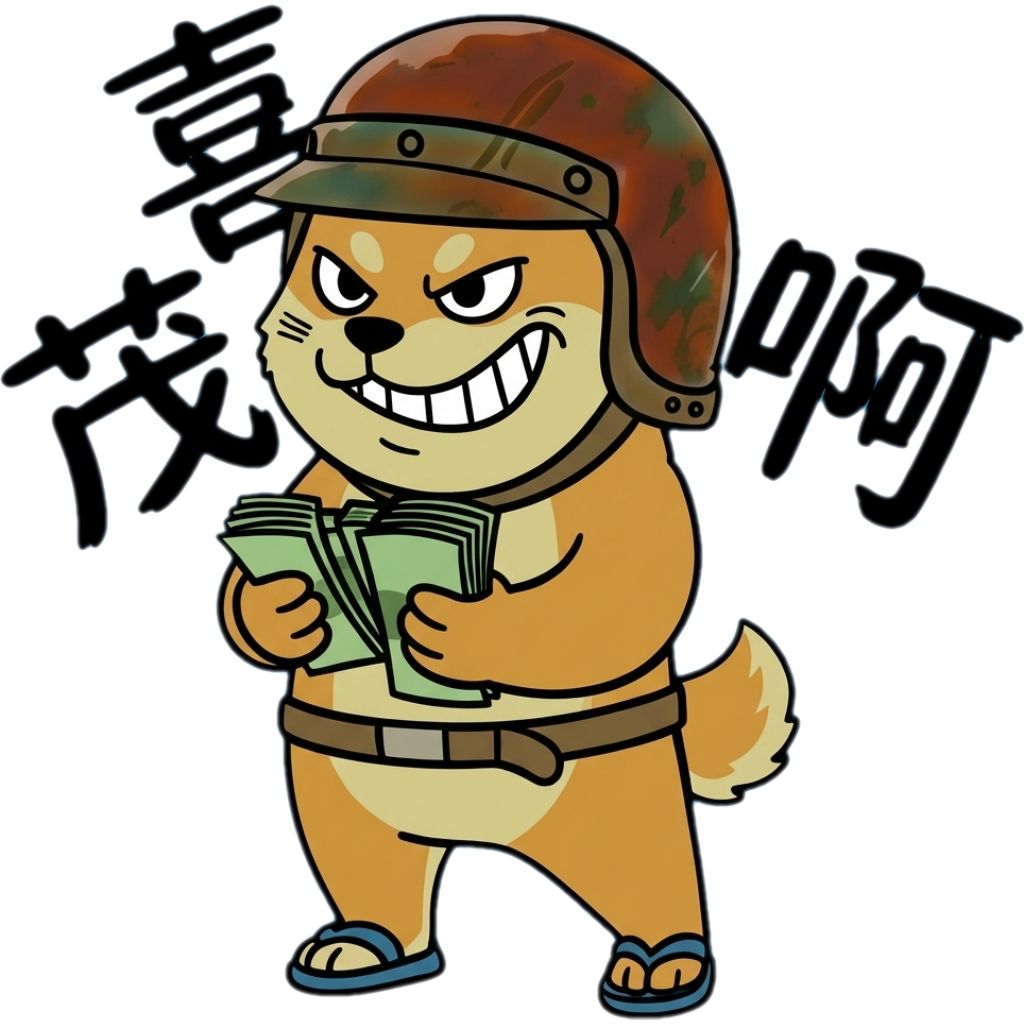
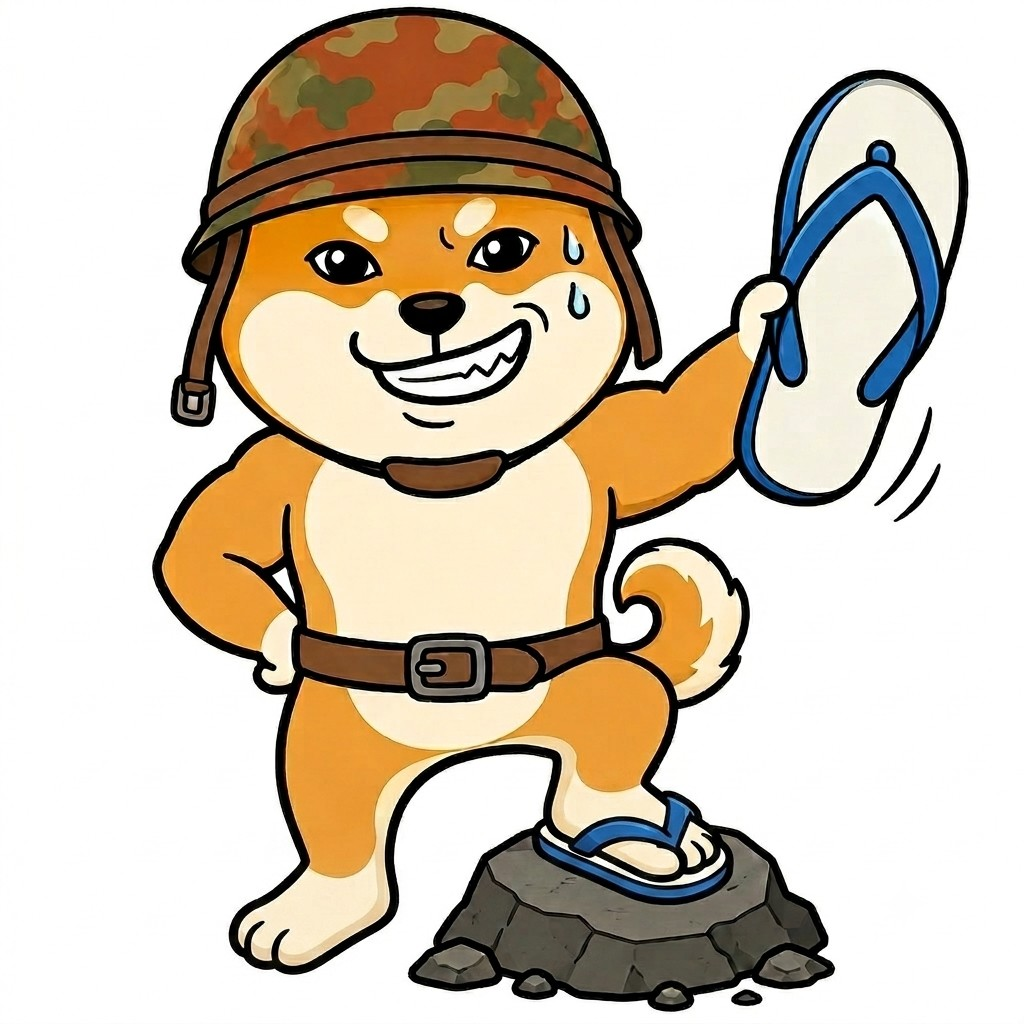
Update Taiwan Shiba Daily store listing copy on homepage.
Align five-locale name, subtitle, and description with revised App Store metadata and refresh the app icon.

diff --git a/content/home.js b/content/home.js
@@ -43,10 +43,10 @@ module.exports = {
     taiger_desc:
       "聊天沒話題？那是因為你少了一隻「台客柴」！本系列收錄江湖吐槽神句與爆笑表情，專門對付已讀不回、需要被狠嗆的朋友。從藍白拖到復古安全帽，超派口頭禪俗擱有力，台到沒朋友。",
     shiba_daily_name: "【台灣柴】日常純圖篇",
-    shiba_daily_sub: "40張無字柴犬・藍白拖＋復古安全帽",
+    shiba_daily_sub: "藍白拖柴犬・無字純圖40張",
     shiba_daily_desc:
-      "同一隻超派阿柴，純圖無字更百搭！日常表情、北爛姿態一次收齊，iMessage 聊天不尬聊。8/31 前限時免費。",
-    shiba_daily_app_id: "",
+      "同一隻超派阿柴，純圖無字更百搭！藍白拖、復古安全帽，日常表情與北爛姿態一次收齊，聊天不漏接。",
+    shiba_daily_app_id: "6783024876",
     meow1_name: "MeowCAT-1: 辦公室貓爪",
     meow1_sub: "你的每日可愛劑量 / Your Daily Dose of Cuteness",
     meow1_desc: "踏入辦公室日常！冒雨通勤、KPI 奮戰，每個瞬間變得可愛又共鳴。",
@@ -124,10 +124,10 @@ module.exports = {
     taiger_desc:
       "聊天没话题？那是因为你少了一只「台客柴」！本系列收录江湖吐槽神句与爆笑表情，专门对付已读不回、需要被狠呛的朋友。从蓝白拖到复古安全帽，超派口头禅俗搁有力，台到没朋友。",
     shiba_daily_name: "【台湾柴】日常纯图篇",
-    shiba_daily_sub: "40张无字柴犬・蓝白拖＋复古安全帽",
+    shiba_daily_sub: "蓝白拖柴犬・无字纯图40张",
     shiba_daily_desc:
-      "同一只超派阿柴，纯图无字更百搭！日常表情、北烂姿态一次收齐，iMessage 聊天不尬聊。8/31 前限时免费。",
-    shiba_daily_app_id: "",
+      "同一只超派阿柴，纯图无字更百搭！蓝白拖、复古安全帽，日常表情与北烂姿态一次收齐，聊天不漏接。",
+    shiba_daily_app_id: "6783024876",
     meow1_name: "MeowCAT-1: 办公室猫爪",
     meow1_sub: "你的每日可爱剂量 / Your Daily Dose of Cuteness",
     meow1_desc: "踏入办公室日常！冒雨通勤、KPI 奋战，每个瞬间变得可爱又共鸣。",
@@ -204,11 +204,11 @@ module.exports = {
     taiger_sub: "Blue slippers + retro helmet + gangster phrases. Looks fierce but hilariously silly",
     taiger_desc:
       "No chat topics? You're missing Taiger Shiba! Gangster one-liners and hilarious expressions for ghosting friends and spicy group chats. Blue slippers, retro helmet, Taiwan swagger—collect them all.",
-    shiba_daily_name: "Taiwan Shiba: Daily Expressions",
-    shiba_daily_sub: "40 text-free Shiba stickers for iMessage",
+    shiba_daily_name: "Taiwan Shiba Daily Expressions",
+    shiba_daily_sub: "40 text-free Shiba stickers",
     shiba_daily_desc:
-      "Same fierce Taiwan Shiba—zero text on the art. Everyday reactions and poses with blue slippers and a retro helmet. FREE until Aug 31.",
-    shiba_daily_app_id: "",
+      "Same fierce Taiwan Shiba—zero text on the art. Blue slippers, retro helmet, and everyday reactions for any chat.",
+    shiba_daily_app_id: "6783024876",
     meow1_name: "MeowCAT-1: Office Paws",
     meow1_sub: "Your Daily Dose of Cuteness",
     meow1_desc: "Office life reimagined! Rainy commutes, KPI battles—every moment cuter and more relatable.",
@@ -286,10 +286,10 @@ module.exports = {
     taiger_desc:
       "話題に困った？台客柴がいないだけかも！台湾スラングの名セリフと爆笑スタンプで、既読スルーや辛口チャットに最適。ビーチサンダルからレトロヘルメットまで、台湾のノリ満載。",
     shiba_daily_name: "台湾柴：デイリー表情",
-    shiba_daily_sub: "文字なし柴犬ステッカー40枚",
+    shiba_daily_sub: "文字なし柴犬40枚・日常",
     shiba_daily_desc:
-      "同じ台湾柴キャラの文字なし版。ビーチサンダル＋レトロヘルメットの日常表情。2026年8月31日まで無料。",
-    shiba_daily_app_id: "",
+      "同じ台湾柴、今回は文字なし。ビーチサンダルとレトロヘルメットの柴犬が、日常のリアクションを届けます。",
+    shiba_daily_app_id: "6783024876",
     meow1_name: "MeowCAT-1: オフィスネコ",
     meow1_sub: "あなたの毎日の可愛さの摂取量",
     meow1_desc: "オフィスライフを再解釈！雨の通勤、KPIとの戦い—すべての瞬間がもっとかわいく、共感できるように。",
@@ -367,10 +367,10 @@ module.exports = {
     taiger_desc:
       "대화 주제가 없나요? 타이거 시바가 없어서 그렇습니다! 대만식 명대사와 웃긴 이모티콘으로 읽씹 친구와 매운맛 채팅에 딱 맞습니다. 슬리퍼부터 레트로 헬멧까지, 대만 감성 가득.",
     shiba_daily_name: "타이완 시바: 데일리 스티커",
-    shiba_daily_sub: "글자 없는 시바 스티커 40장",
+    shiba_daily_sub: "글자 없는 시바 40장・일상",
     shiba_daily_desc:
-      "같은 타이완 시바 캐릭터의 글자 없는 버전. 슬리퍼+레트로 헬멧 일상 표정. 2026년 8월 31일까지 무료.",
-    shiba_daily_app_id: "",
+      "같은 타이완 시바, 이번엔 글자 없이. 슬리퍼와 레트로 헬멧을 쓴 시바가 일상 리액션을 전해 드립니다.",
+    shiba_daily_app_id: "6783024876",
     meow1_name: "MeowCAT-1: 사무실 고양이",
     meow1_sub: "당신의 매일 매력 복용량",
     meow1_desc: "오피스 라이프를 새롭게! 비 오는 출근, KPI 전투—모든 순간이 더 귀엽고 공감되게.",

diff --git a/en/index.html b/en/index.html
@@ -431,7 +431,7 @@ That someone is you</div>
         </div>
         <div class="grid-stickers">
             <div class="sticker-card"><img class="sticker-icon" src="/images/shiba_icon.png" alt="Taiger Shiba"><div class="sticker-name-zh">Taiger Shiba: Jianghu Daily</div><div class="sticker-sub">Blue slippers + retro helmet + gangster phrases. Looks fierce but hilariously silly</div><div class="sticker-desc">No chat topics? You're missing Taiger Shiba! Gangster one-liners and hilarious expressions for ghosting friends and spicy group chats. Blue slippers, retro helmet, Taiwan swagger—collect them all.</div><div class="store-badge"><a href="https://apps.apple.com/app/id6761126835" target="_blank" rel="noopener"><img src="/images/Download_on_the_App_Store_Badge.png" style="height:36px;" alt="App Store"></a></div></div>
-            <div class="sticker-card"><img class="sticker-icon" src="/images/shiba_daily_icon.png" alt="Taiwan Shiba Daily"><div class="sticker-name-zh">Taiwan Shiba: Daily Expressions</div><div class="sticker-sub">40 text-free Shiba stickers for iMessage</div><div class="sticker-desc">Same fierce Taiwan Shiba—zero text on the art. Everyday reactions and poses with blue slippers and a retro helmet. FREE until Aug 31.</div></div>
+            <div class="sticker-card"><img class="sticker-icon" src="/images/shiba_daily_icon.png" alt="Taiwan Shiba Daily"><div class="sticker-name-zh">Taiwan Shiba Daily Expressions</div><div class="sticker-sub">40 text-free Shiba stickers</div><div class="sticker-desc">Same fierce Taiwan Shiba—zero text on the art. Blue slippers, retro helmet, and everyday reactions for any chat.</div><div class="store-badge"><a href="https://apps.apple.com/app/id6783024876" target="_blank" rel="noopener"><img src="/images/Download_on_the_App_Store_Badge.png" style="height:36px;" alt="App Store"></a></div></div>
             <div class="sticker-card"><img class="sticker-icon" src="/images/MeowCAT-1_icon.png" alt="MeowCAT-1"><div class="sticker-name-zh">MeowCAT-1: Office Paws</div><div class="sticker-sub">Your Daily Dose of Cuteness</div><div class="sticker-desc">Office life reimagined! Rainy commutes, KPI battles—every moment cuter and more relatable.</div><div class="store-badge"><a href="https://apps.apple.com/app/id6755613138" target="_blank" rel="noopener"><img src="/images/Download_on_the_App_Store_Badge.png" style="height:36px;" alt="App Store"></a></div></div>
             <div class="sticker-card"><img class="sticker-icon" src="/images/MeowCAT-2_icon.png" alt="MeowCAT-2"><div class="sticker-name-zh">MeowCAT-2: Corporate Meltdown</div><div class="sticker-sub">Sassy &amp; Stressed-out</div><div class="sticker-desc">Inbox hydra, boss emergencies—sassy office cat attitude for your meltdown days.</div><div class="store-badge"><a href="https://apps.apple.com/app/id6755665538" target="_blank" rel="noopener"><img src="/images/Download_on_the_App_Store_Badge.png" style="height:36px;" alt="App Store"></a></div></div>
             <div class="sticker-card"><img class="sticker-icon" src="/images/MeowCAT-3_icon.png" alt="MeowCAT-3"><div class="sticker-name-zh">MeowCAT-3: Cubicle Tails</div><div class="sticker-sub">Say It with a Meow</div><div class="sticker-desc">Endless meetings, sleepy keyboard cat, paw-high-fives for wins—a fluffy cubicle companion.</div><div class="store-badge"><a href="https://apps.apple.com/app/id6755676294" target="_blank" rel="noopener"><img src="/images/Download_on_the_App_Store_Badge.png" style="height:36px;" alt="App Store"></a></div></div>

diff --git a/ja/index.html b/ja/index.html
@@ -431,7 +431,7 @@ footer { text-align: center; padding: 24px 0 40px; font-size: 0.7rem; color: #6a
         </div>
         <div class="grid-stickers">
             <div class="sticker-card"><img class="sticker-icon" src="/images/shiba_icon.png" alt="Taiger Shiba"><div class="sticker-name-zh">【台客柴】阿柴的江湖日常：俗擱有力篇</div><div class="sticker-sub">藍白拖＋復古安全帽＋超派口頭禪，看起來很兇其實超北爛</div><div class="sticker-desc">話題に困った？台客柴がいないだけかも！台湾スラングの名セリフと爆笑スタンプで、既読スルーや辛口チャットに最適。ビーチサンダルからレトロヘルメットまで、台湾のノリ満載。</div><div class="store-badge"><a href="https://apps.apple.com/app/id6761126835" target="_blank" rel="noopener"><img src="/images/Download_on_the_App_Store_Badge.png" style="height:36px;" alt="App Store"></a></div></div>
-            <div class="sticker-card"><img class="sticker-icon" src="/images/shiba_daily_icon.png" alt="Taiwan Shiba Daily"><div class="sticker-name-zh">台湾柴：デイリー表情</div><div class="sticker-sub">文字なし柴犬ステッカー40枚</div><div class="sticker-desc">同じ台湾柴キャラの文字なし版。ビーチサンダル＋レトロヘルメットの日常表情。2026年8月31日まで無料。</div></div>
+            <div class="sticker-card"><img class="sticker-icon" src="/images/shiba_daily_icon.png" alt="Taiwan Shiba Daily"><div class="sticker-name-zh">台湾柴：デイリー表情</div><div class="sticker-sub">文字なし柴犬40枚・日常</div><div class="sticker-desc">同じ台湾柴、今回は文字なし。ビーチサンダルとレトロヘルメットの柴犬が、日常のリアクションを届けます。</div><div class="store-badge"><a href="https://apps.apple.com/app/id6783024876" target="_blank" rel="noopener"><img src="/images/Download_on_the_App_Store_Badge.png" style="height:36px;" alt="App Store"></a></div></div>
             <div class="sticker-card"><img class="sticker-icon" src="/images/MeowCAT-1_icon.png" alt="MeowCAT-1"><div class="sticker-name-zh">MeowCAT-1: オフィスネコ</div><div class="sticker-sub">あなたの毎日の可愛さの摂取量</div><div class="sticker-desc">オフィスライフを再解釈！雨の通勤、KPIとの戦い—すべての瞬間がもっとかわいく、共感できるように。</div><div class="store-badge"><a href="https://apps.apple.com/app/id6755613138" target="_blank" rel="noopener"><img src="/images/Download_on_the_App_Store_Badge.png" style="height:36px;" alt="App Store"></a></div></div>
             <div class="sticker-card"><img class="sticker-icon" src="/images/MeowCAT-2_icon.png" alt="MeowCAT-2"><div class="sticker-name-zh">MeowCAT-2: 社畜のメンタル爆破</div><div class="sticker-sub">ツンデレ&amp;脳筋破裂</div><div class="sticker-desc">受信箱の九頭龍、上司の緊急依頼—生意気なオフィス猫が、崩壊寸前の日常を支える。</div><div class="store-badge"><a href="https://apps.apple.com/app/id6755665538" target="_blank" rel="noopener"><img src="/images/Download_on_the_App_Store_Badge.png" style="height:36px;" alt="App Store"></a></div></div>
             <div class="sticker-card"><img class="sticker-icon" src="/images/MeowCAT-3_icon.png" alt="MeowCAT-3"><div class="sticker-name-zh">MeowCAT-3: 業務にゃん</div><div class="sticker-sub">鳴き声で、伝えよう</div><div class="sticker-desc">終わらない会議、キーボード横の眠そうな猫、成功を祝う肉球ハイタッチ—ふわふわの相棒が日常を癒す。</div><div class="store-badge"><a href="https://apps.apple.com/app/id6755676294" target="_blank" rel="noopener"><img src="/images/Download_on_the_App_Store_Badge.png" style="height:36px;" alt="App Store"></a></div></div>

diff --git a/ko/index.html b/ko/index.html
@@ -431,7 +431,7 @@ footer { text-align: center; padding: 24px 0 40px; font-size: 0.7rem; color: #6a
         </div>
         <div class="grid-stickers">
             <div class="sticker-card"><img class="sticker-icon" src="/images/shiba_icon.png" alt="Taiger Shiba"><div class="sticker-name-zh">【台客柴】阿柴的江湖日常：俗擱有力篇</div><div class="sticker-sub">藍白拖＋復古安全帽＋超派口頭禪，看起來很兇其實超北爛</div><div class="sticker-desc">대화 주제가 없나요? 타이거 시바가 없어서 그렇습니다! 대만식 명대사와 웃긴 이모티콘으로 읽씹 친구와 매운맛 채팅에 딱 맞습니다. 슬리퍼부터 레트로 헬멧까지, 대만 감성 가득.</div><div class="store-badge"><a href="https://apps.apple.com/app/id6761126835" target="_blank" rel="noopener"><img src="/images/Download_on_the_App_Store_Badge.png" style="height:36px;" alt="App Store"></a></div></div>
-            <div class="sticker-card"><img class="sticker-icon" src="/images/shiba_daily_icon.png" alt="Taiwan Shiba Daily"><div class="sticker-name-zh">타이완 시바: 데일리 스티커</div><div class="sticker-sub">글자 없는 시바 스티커 40장</div><div class="sticker-desc">같은 타이완 시바 캐릭터의 글자 없는 버전. 슬리퍼+레트로 헬멧 일상 표정. 2026년 8월 31일까지 무료.</div></div>
+            <div class="sticker-card"><img class="sticker-icon" src="/images/shiba_daily_icon.png" alt="Taiwan Shiba Daily"><div class="sticker-name-zh">타이완 시바: 데일리 스티커</div><div class="sticker-sub">글자 없는 시바 40장・일상</div><div class="sticker-desc">같은 타이완 시바, 이번엔 글자 없이. 슬리퍼와 레트로 헬멧을 쓴 시바가 일상 리액션을 전해 드립니다.</div><div class="store-badge"><a href="https://apps.apple.com/app/id6783024876" target="_blank" rel="noopener"><img src="/images/Download_on_the_App_Store_Badge.png" style="height:36px;" alt="App Store"></a></div></div>
             <div class="sticker-card"><img class="sticker-icon" src="/images/MeowCAT-1_icon.png" alt="MeowCAT-1"><div class="sticker-name-zh">MeowCAT-1: 사무실 고양이</div><div class="sticker-sub">당신의 매일 매력 복용량</div><div class="sticker-desc">오피스 라이프를 새롭게! 비 오는 출근, KPI 전투—모든 순간이 더 귀엽고 공감되게.</div><div class="store-badge"><a href="https://apps.apple.com/app/id6755613138" target="_blank" rel="noopener"><img src="/images/Download_on_the_App_Store_Badge.png" style="height:36px;" alt="App Store"></a></div></div>
             <div class="sticker-card"><img class="sticker-icon" src="/images/MeowCAT-2_icon.png" alt="MeowCAT-2"><div class="sticker-name-zh">MeowCAT-2: 회사 괴롭힘 실태</div><div class="sticker-sub">삐졌음 스트레스 폭발함</div><div class="sticker-desc">받은편지함 히드라, 보스의 긴급 요청—당당한 오피스 고양이가 무너지는 일상을 함께합니다.</div><div class="store-badge"><a href="https://apps.apple.com/app/id6755665538" target="_blank" rel="noopener"><img src="/images/Download_on_the_App_Store_Badge.png" style="height:36px;" alt="App Store"></a></div></div>
             <div class="sticker-card"><img class="sticker-icon" src="/images/MeowCAT-3_icon.png" alt="MeowCAT-3"><div class="sticker-name-zh">MeowCAT-3: 사무실 야옹이</div><div class="sticker-sub">야옹으로 전해요</div><div class="sticker-desc">끝없는 회의, 키보드 옆 졸린 고양이, 성공을 축하하는 발바닥 하이파이브—푹신한 동료가 일상을 치유합니다.</div><div class="store-badge"><a href="https://apps.apple.com/app/id6755676294" target="_blank" rel="noopener"><img src="/images/Download_on_the_App_Store_Badge.png" style="height:36px;" alt="App Store"></a></div></div>

diff --git a/zh-cn/index.html b/zh-cn/index.html
@@ -431,7 +431,7 @@ footer { text-align: center; padding: 24px 0 40px; font-size: 0.7rem; color: #6a
         </div>
         <div class="grid-stickers">
             <div class="sticker-card"><img class="sticker-icon" src="/images/shiba_icon.png" alt="Taiger Shiba"><div class="sticker-name-zh">【台客柴】阿柴的江湖日常：俗搁有力篇</div><div class="sticker-sub">蓝白拖＋复古安全帽＋超派口头禅，看起来很凶其实超北烂</div><div class="sticker-desc">聊天没话题？那是因为你少了一只「台客柴」！本系列收录江湖吐槽神句与爆笑表情，专门对付已读不回、需要被狠呛的朋友。从蓝白拖到复古安全帽，超派口头禅俗搁有力，台到没朋友。</div><div class="store-badge"><a href="https://apps.apple.com/app/id6761126835" target="_blank" rel="noopener"><img src="/images/Download_on_the_App_Store_Badge.png" style="height:36px;" alt="App Store"></a></div></div>
-            <div class="sticker-card"><img class="sticker-icon" src="/images/shiba_daily_icon.png" alt="Taiwan Shiba Daily"><div class="sticker-name-zh">【台湾柴】日常纯图篇</div><div class="sticker-sub">40张无字柴犬・蓝白拖＋复古安全帽</div><div class="sticker-desc">同一只超派阿柴，纯图无字更百搭！日常表情、北烂姿态一次收齐，iMessage 聊天不尬聊。8/31 前限时免费。</div></div>
+            <div class="sticker-card"><img class="sticker-icon" src="/images/shiba_daily_icon.png" alt="Taiwan Shiba Daily"><div class="sticker-name-zh">【台湾柴】日常纯图篇</div><div class="sticker-sub">蓝白拖柴犬・无字纯图40张</div><div class="sticker-desc">同一只超派阿柴，纯图无字更百搭！蓝白拖、复古安全帽，日常表情与北烂姿态一次收齐，聊天不漏接。</div><div class="store-badge"><a href="https://apps.apple.com/app/id6783024876" target="_blank" rel="noopener"><img src="/images/Download_on_the_App_Store_Badge.png" style="height:36px;" alt="App Store"></a></div></div>
             <div class="sticker-card"><img class="sticker-icon" src="/images/MeowCAT-1_icon.png" alt="MeowCAT-1"><div class="sticker-name-zh">MeowCAT-1: 办公室猫爪</div><div class="sticker-sub">你的每日可爱剂量 / Your Daily Dose of Cuteness</div><div class="sticker-desc">踏入办公室日常！冒雨通勤、KPI 奋战，每个瞬间变得可爱又共鸣。</div><div class="store-badge"><a href="https://apps.apple.com/app/id6755613138" target="_blank" rel="noopener"><img src="/images/Download_on_the_App_Store_Badge.png" style="height:36px;" alt="App Store"></a></div></div>
             <div class="sticker-card"><img class="sticker-icon" src="/images/MeowCAT-2_icon.png" alt="MeowCAT-2"><div class="sticker-name-zh">MeowCAT-2: 职场崩溃日记</div><div class="sticker-sub">嚣张不改，崩溃常来 / Sassy &amp; Stressed-out</div><div class="sticker-desc">收件箱九头蛇、老板紧急要求，办公猫魂压力山大，呛辣态度陪你度过崩溃日常。</div><div class="store-badge"><a href="https://apps.apple.com/app/id6755665538" target="_blank" rel="noopener"><img src="/images/Download_on_the_App_Store_Badge.png" style="height:36px;" alt="App Store"></a></div></div>
             <div class="sticker-card"><img class="sticker-icon" src="/images/MeowCAT-3_icon.png" alt="MeowCAT-3"><div class="sticker-name-zh">MeowCAT-3: 隔间喵趣</div><div class="sticker-sub">用一声喵，说一切 / Say It with a Meow</div><div class="sticker-desc">无限会议、键盘旁困倦小猫，肉球击掌庆祝成功，毛茸茸伙伴疗愈日常。</div><div class="store-badge"><a href="https://apps.apple.com/app/id6755676294" target="_blank" rel="noopener"><img src="/images/Download_on_the_App_Store_Badge.png" style="height:36px;" alt="App Store"></a></div></div>

diff --git a/zh-tw/index.html b/zh-tw/index.html
@@ -431,7 +431,7 @@ footer { text-align: center; padding: 24px 0 40px; font-size: 0.7rem; color: #6a
         </div>
         <div class="grid-stickers">
             <div class="sticker-card"><img class="sticker-icon" src="/images/shiba_icon.png" alt="Taiger Shiba"><div class="sticker-name-zh">【台客柴】阿柴的江湖日常：俗擱有力篇</div><div class="sticker-sub">藍白拖＋復古安全帽＋超派口頭禪，看起來很兇其實超北爛</div><div class="sticker-desc">聊天沒話題？那是因為你少了一隻「台客柴」！本系列收錄江湖吐槽神句與爆笑表情，專門對付已讀不回、需要被狠嗆的朋友。從藍白拖到復古安全帽，超派口頭禪俗擱有力，台到沒朋友。</div><div class="store-badge"><a href="https://apps.apple.com/app/id6761126835" target="_blank" rel="noopener"><img src="/images/Download_on_the_App_Store_Badge.png" style="height:36px;" alt="App Store"></a></div></div>
-            <div class="sticker-card"><img class="sticker-icon" src="/images/shiba_daily_icon.png" alt="Taiwan Shiba Daily"><div class="sticker-name-zh">【台灣柴】日常純圖篇</div><div class="sticker-sub">40張無字柴犬・藍白拖＋復古安全帽</div><div class="sticker-desc">同一隻超派阿柴，純圖無字更百搭！日常表情、北爛姿態一次收齊，iMessage 聊天不尬聊。8/31 前限時免費。</div></div>
+            <div class="sticker-card"><img class="sticker-icon" src="/images/shiba_daily_icon.png" alt="Taiwan Shiba Daily"><div class="sticker-name-zh">【台灣柴】日常純圖篇</div><div class="sticker-sub">藍白拖柴犬・無字純圖40張</div><div class="sticker-desc">同一隻超派阿柴，純圖無字更百搭！藍白拖、復古安全帽，日常表情與北爛姿態一次收齊，聊天不漏接。</div><div class="store-badge"><a href="https://apps.apple.com/app/id6783024876" target="_blank" rel="noopener"><img src="/images/Download_on_the_App_Store_Badge.png" style="height:36px;" alt="App Store"></a></div></div>
             <div class="sticker-card"><img class="sticker-icon" src="/images/MeowCAT-1_icon.png" alt="MeowCAT-1"><div class="sticker-name-zh">MeowCAT-1: 辦公室貓爪</div><div class="sticker-sub">你的每日可愛劑量 / Your Daily Dose of Cuteness</div><div class="sticker-desc">踏入辦公室日常！冒雨通勤、KPI 奮戰，每個瞬間變得可愛又共鳴。</div><div class="store-badge"><a href="https://apps.apple.com/app/id6755613138" target="_blank" rel="noopener"><img src="/images/Download_on_the_App_Store_Badge.png" style="height:36px;" alt="App Store"></a></div></div>
             <div class="sticker-card"><img class="sticker-icon" src="/images/MeowCAT-2_icon.png" alt="MeowCAT-2"><div class="sticker-name-zh">MeowCAT-2: 職場崩潰日記</div><div class="sticker-sub">囂張不改，崩潰常來 / Sassy &amp; Stressed-out</div><div class="sticker-desc">收件箱九頭蛇、老闆緊急要求，辦公貓魂壓力山大，嗆辣態度陪你度過崩潰日常。</div><div class="store-badge"><a href="https://apps.apple.com/app/id6755665538" target="_blank" rel="noopener"><img src="/images/Download_on_the_App_Store_Badge.png" style="height:36px;" alt="App Store"></a></div></div>
             <div class="sticker-card"><img class="sticker-icon" src="/images/MeowCAT-3_icon.png" alt="MeowCAT-3"><div class="sticker-name-zh">MeowCAT-3: 隔間喵趣</div><div class="sticker-sub">用一聲喵，說一切 / Say It with a Meow</div><div class="sticker-desc">無限會議、鍵盤旁睏倦小貓，肉球擊掌慶祝成功，毛茸茸夥伴療癒日常。</div><div class="store-badge"><a href="https://apps.apple.com/app/id6755676294" target="_blank" rel="noopener"><img src="/images/Download_on_the_App_Store_Badge.png" style="height:36px;" alt="App Store"></a></div></div>